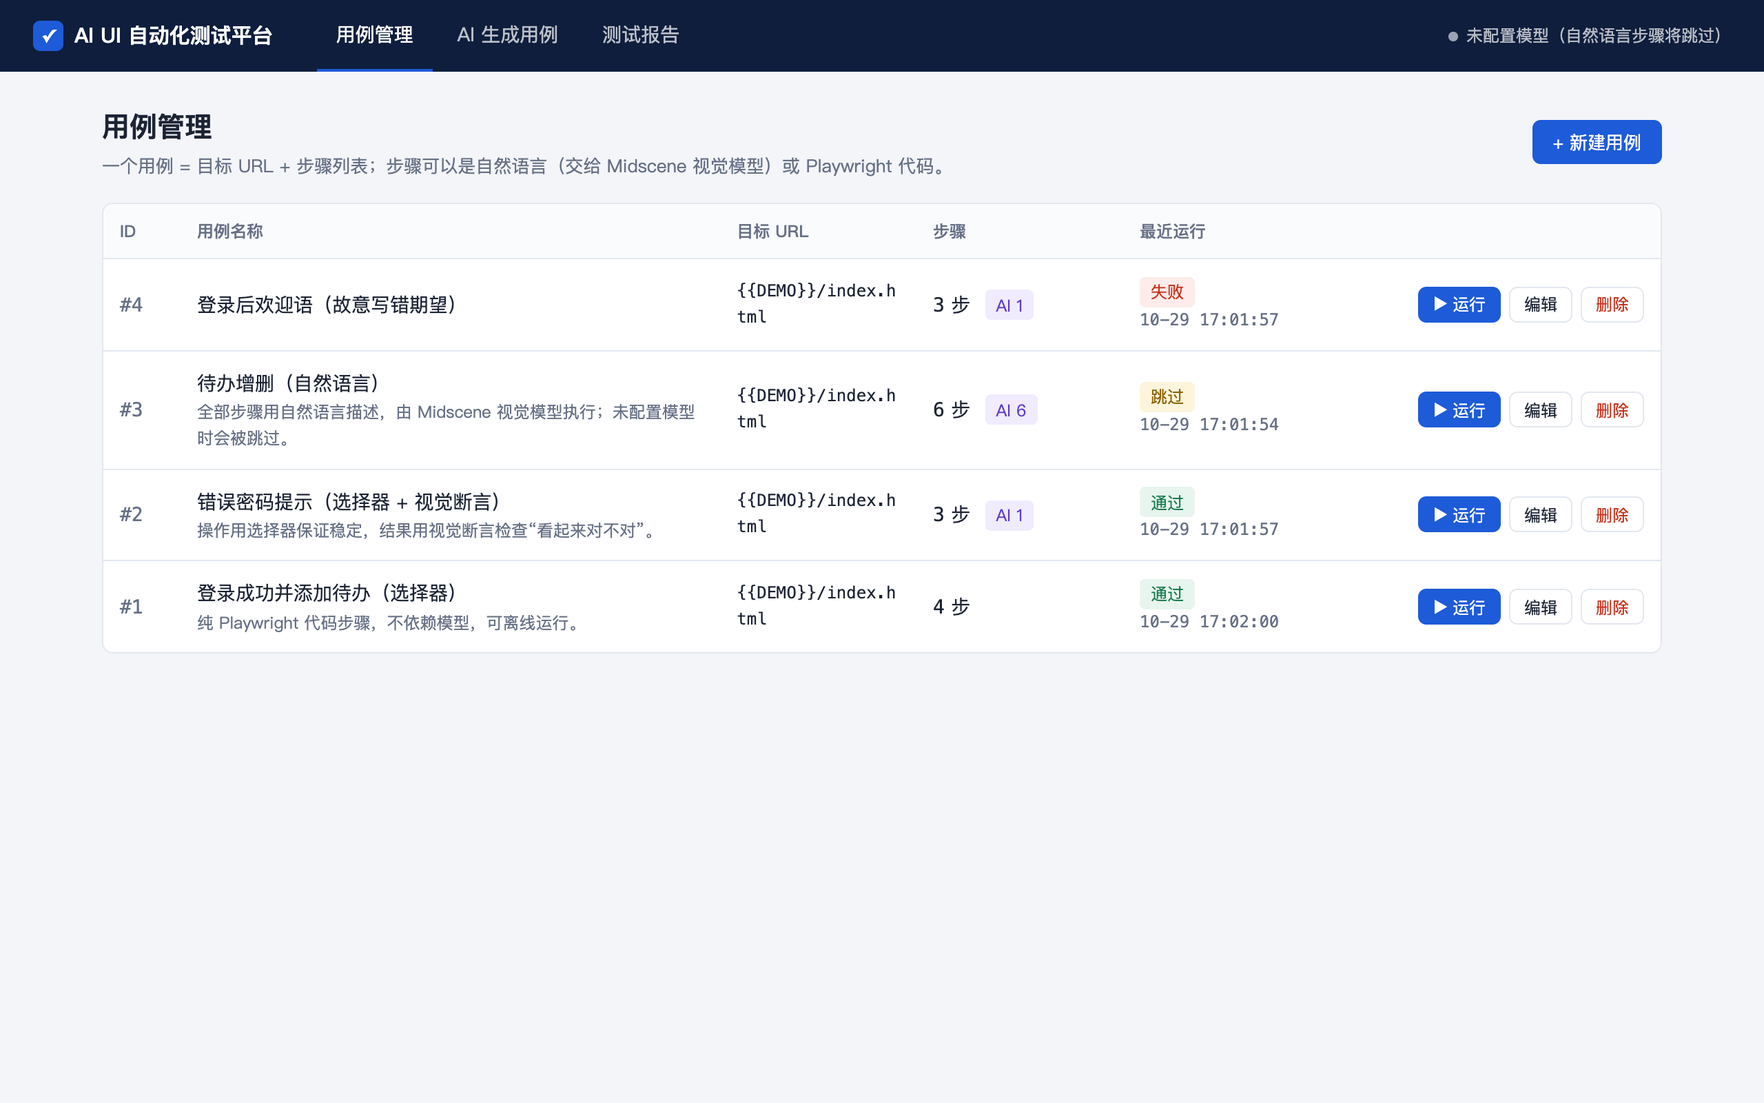
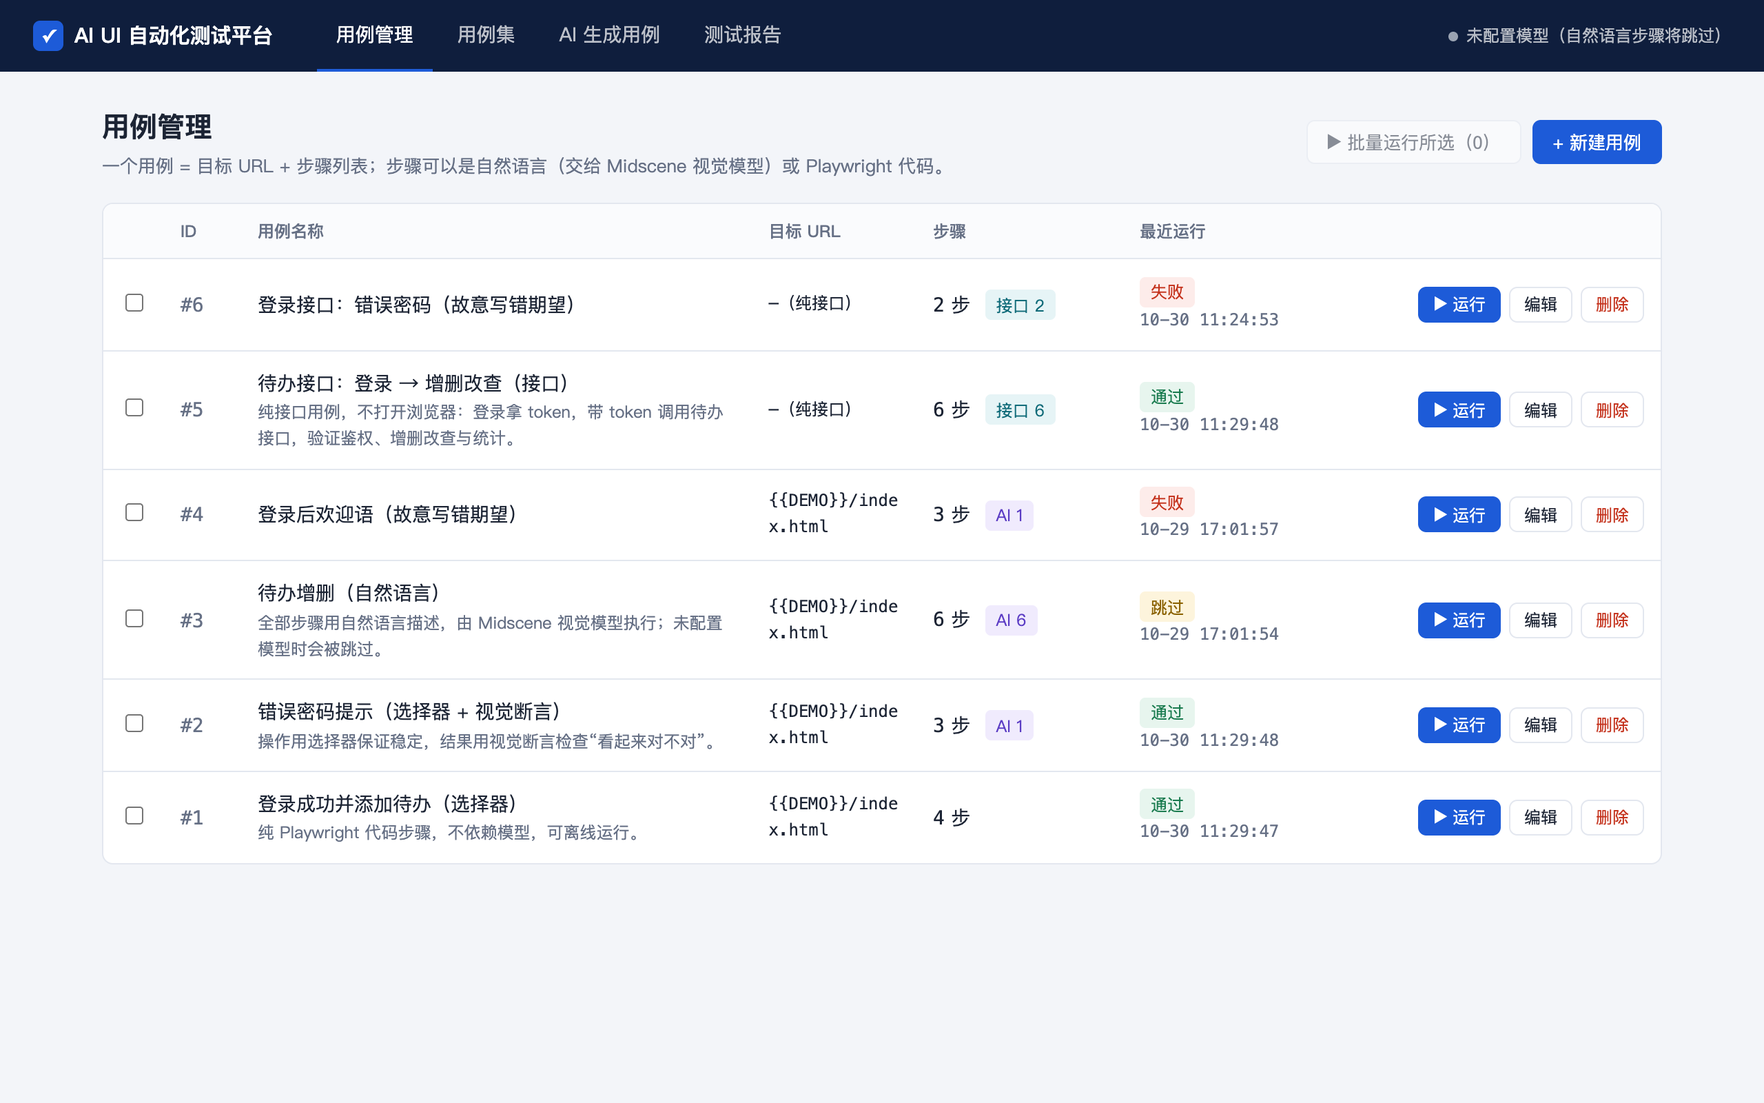
docs: 面试讲稿（架构、接口测试知识点对照、常见追问）、README 更新与新截图

diff --git a/scripts/screenshots.ts b/scripts/screenshots.ts
@@ -28,6 +28,19 @@ if (passed) {
   await page.goto(`${base}/runs/${passed.id}`)
   await shot('run-passed', true)
 }
+const apiRun = runs.find((r: any) => r.caseName.includes('（接口）') && r.status === 'passed')
+if (apiRun) {
+  await page.goto(`${base}/runs/${apiRun.id}`)
+  await page.locator('[data-test=api-exchange] summary').first().click()
+  await shot('run-api')
+}
+const batches = await (await page.request.get(`${base}/api/batches`)).json()
+if (batches[0]) {
+  await page.goto(`${base}/batches/${batches[0].id}`)
+  await shot('batch')
+}
+await page.goto(`${base}/suites`)
+await shot('suites')
 await page.goto(`${base}/reports`)
 await page.hover('svg path.col >> nth=5').catch(() => {})
 await shot('reports')

diff --git a/README.md b/README.md
@@ -1,6 +1,6 @@
 # AI 驱动的 UI 自动化测试平台
 
-在 Web 页面上管理 UI 测试用例、一键执行、查看报告。用例步骤可以写 **Playwright 代码**（选择器，快且确定），也可以写**自然语言**（交给 [Midscene.js](https://midscenejs.com/) 视觉模型看截图执行），两种步骤可以写在同一个用例里。还能粘贴需求文本，让大模型生成用例草稿，人工审核后再入库。
+在 Web 页面上管理测试用例、一键执行、查看报告。用例步骤可以写 **Playwright 代码**（选择器，快且确定）、**自然语言**（交给 [Midscene.js](https://midscenejs.com/) 视觉模型看截图执行）或**接口请求**（YAML 描述请求、断言和变量提取），几种步骤可以写在同一个用例里。用例可以组成用例集批量运行，导出 JUnit 报告接入 CI。还能粘贴需求文本，让大模型生成用例草稿，人工审核后再入库。
 
 > 定位：帮团队从“手工点页面”过渡到自动化，让不熟悉代码的测试同学先用自然语言写用例，稳定之后再沉淀成选择器脚本。
 
@@ -10,11 +10,13 @@
 
 | 模块 | 说明 |
 |---|---|
-| 用例管理 | 新建 / 编辑 / 删除用例；一个用例 = 目标 URL + 步骤列表；步骤有四种：AI 操作（`aiAct`）、AI 断言（`aiAssert`）、AI 提取（`aiQuery`）、Playwright 代码片段；数据存在 SQLite |
+| 用例管理 | 新建 / 编辑 / 删除用例；一个用例 = 目标 URL + 步骤列表；步骤有五种：AI 操作（`aiAct`）、AI 断言（`aiAssert`）、AI 提取（`aiQuery`）、Playwright 代码片段、接口请求；数据存在 SQLite |
+| 接口测试 | 接口步骤用 YAML 描述 `method / url / headers / json`，断言状态码、响应耗时、响应头和 JSON 字段（`eq / exists / contains / len / gt / lt / type`），用 `extract` 提取变量供后续步骤引用（接口关联）。纯接口用例不启动浏览器，报告展示请求与响应（鉴权头脱敏） |
 | 一键执行 | 后端用 Playwright 驱动 Chrome 执行；运行进入串行队列异步执行，前端每 0.8 秒轮询一次，实时看到每一步的状态。未配置模型时自然语言步骤标记为“跳过（未配置模型）”，代码步骤照常执行 |
 | 测试报告 | 每一步都记录状态、耗时、截图（失败步骤大图展示）、模型调用次数和 token；报告页有运行通过率、平均耗时、每日通过率趋势、最近 30 次耗时柱状图和历史运行列表，可按用例和时间范围筛选 |
+| 用例集与 CI | 用例可以组成用例集，或在列表里勾选多个用例批量运行；批次页显示进度与汇总，可下载 JUnit XML。`npm run ci:run -- --suite 冒烟` 触发用例集并轮询到结束，有失败时以非 0 退出，让流水线变红 |
 | AI 生成用例 | 粘贴需求文本，调用 OpenAI 兼容接口生成用例草稿（自然语言步骤）；草稿可修改、可取消勾选，点“保存”后才入库 |
-| 演示站点 | 自带一个离线的被测站点（登录 + 待办列表，账号 `demo / demo123`），另附 3 条示例用例，不联网也能演示整条链路 |
+| 演示站点 | 自带一个离线的被测站点：页面（登录 + 待办列表，账号 `demo / demo123`）和后端接口 `/demo-api`（登录发放 token，带 token 增删改查待办，每个会话的数据互相隔离）。另附 4 条示例用例和一个“冒烟”用例集，不联网也能演示整条链路 |
 
 ## 快速开始
 
@@ -26,7 +28,7 @@ npm install
 npm run dev
 ```
 
-打开 <http://localhost:5173>（如果端口被占用，Vite 会自动换一个，以终端输出为准）。首次启动会自动创建 `data/platform.db`，并写入 3 条示例用例。
+打开 <http://localhost:5173>（如果端口被占用，Vite 会自动换一个，以终端输出为准）。首次启动会自动创建 `data/platform.db`，并写入 4 条示例用例和“冒烟”用例集。
 
 - 浏览器默认用本机安装的 **Google Chrome**（`BROWSER_CHANNEL=chrome`），不用另外下载 Chromium。没有 Chrome 时，先执行 `npx playwright install chromium`，再在 `.env` 里写 `BROWSER_CHANNEL=`。
 - 配置模型：复制 `.env.example` 为 `.env`，填写 `MIDSCENE_MODEL_BASE_URL / MIDSCENE_MODEL_API_KEY / MIDSCENE_MODEL_NAME`，然后重启。用阿里云百炼时，可以用通用地址或工作空间专属地址；视觉模型响应慢，`MIDSCENE_MODEL_TIMEOUT` 建议设为 120000。`.env` 已加入 `.gitignore`。
@@ -35,11 +37,15 @@ npm run dev
 ## 测试
 
 ```bash
-npm test            # vitest：43 条单元 / 集成测试
+npm test            # vitest：97 条单元 / 集成测试
 ```
 
 ```bash
-npm run test:e2e    # Playwright：8 条平台自身的端到端测试（会先构建前端）
+npm run test:e2e    # Playwright：12 条平台自身的端到端测试（会先构建前端）
+```
+
+```bash
+npm run test:api:setup && npm run test:api   # pytest：66 条接口自动化用例（见 api-tests/README.md）
 ```
 
 ```bash
@@ -48,6 +54,8 @@ npm run typecheck   # tsc + vue-tsc
 
 - **单元测试**：用例校验、URL 占位符、代码片段编译与超时、运行结论推导、模型输出的 JSON 解析（代码块包裹、类型别名、无效步骤丢弃）、OpenAI 兼容请求格式。
 - **集成测试**（`tests/unit/platform.test.ts`）：真实 Fastify + 内存 SQLite + 本机 Chrome 跑演示站点。自然语言步骤由注入的**假 Agent** 执行，用来验证跳过逻辑、每步 token 统计、失败截图、失败后的步骤标记为“未执行”、`vars` 传值、统计口径。
+- **接口自动化**（`api-tests/`，Python）：pytest + requests 分层框架（客户端 / 契约 / 断言 / YAML 数据 / 夹具），测平台接口和演示站点接口：CRUD 与 JSON Schema 契约、数据驱动的参数校验与边界值、登录鉴权与 token 关联、异步接口“提交 → 轮询”、统计口径、CI 脚本的退出码。
+- **CI**（`.github/workflows/ci.yml`）：类型检查 → vitest → E2E → pytest → 启动平台执行“冒烟”用例集，并上传全部报告。
 - **E2E**（`e2e/`）：起两个互相隔离的平台实例。`nomodel` 实例验证“新建 → 执行 → 报告”、失败截图、跳过提示、编辑删除和表单校验；`mockmodel` 实例指向本地假模型（`e2e/mock-llm.ts`），验证“生成 → 审核 → 入库”的流程。假模型只用于测试流程，**不代表真实模型的生成效果**。
 
 ## 架构
@@ -58,25 +66,28 @@ flowchart LR
     UI["用例管理 / 运行详情 / 报告 / AI 生成"]
   end
   subgraph Server["Node 服务（Fastify + TypeScript）"]
-    API["REST API<br/>/api/cases /api/runs /api/stats /api/generate"]
+    API["REST API<br/>/api/cases /api/runs /api/suites<br/>/api/batches /api/stats /api/generate"]
     Q["Executor<br/>串行队列 · 每次运行一个 BrowserContext"]
     GEN["generate.ts<br/>OpenAI 兼容 chat/completions"]
-    DB[("SQLite<br/>cases / runs / run_steps")]
+    DB[("SQLite<br/>cases / suites / batches<br/>runs / run_steps")]
     FS["data/artifacts 截图<br/>data/midscene 回放报告"]
   end
   subgraph Run["被测页面"]
     PW["Playwright 代码步骤<br/>page / expect / vars"]
     MS["Midscene PlaywrightAgent<br/>aiAct / aiAssert / aiQuery"]
+    AP["接口步骤<br/>fetch + 断言 + extract"]
   end
+  CI["CI：ci-run 脚本<br/>JUnit XML"]
   LLM["视觉 / 文本大模型<br/>（如 qwen3-vl-plus）"]
-  DEMO["演示站点 /demo"]
+  DEMO["演示站点 /demo<br/>+ 后端 /demo-api"]
 
   UI -- "轮询 0.8s" --> API
   API --> DB
   API -- enqueue --> Q
-  Q --> PW & MS
+  CI -- 触发用例集 / 轮询 --> API
+  Q --> PW & MS & AP
   MS -- 截图 + 指令 --> LLM
-  PW & MS --> DEMO
+  PW & MS & AP --> DEMO
   Q -- 每步写库 / 截图 --> DB & FS
   API --> GEN --> LLM
 ```
@@ -85,9 +96,12 @@ flowchart LR
 
 ```
 server/
-  app.ts            路由（用例、执行、统计、生成）
-  runner/executor.ts  执行器：队列、浏览器复用、逐步执行、截图、用量差值
+  app.ts            路由（用例、执行、用例集与批次、统计、生成）
+  runner/executor.ts  执行器：队列、浏览器按需启动、逐步执行、截图、用量差值
   runner/steps.ts     代码片段编译与超时、运行结论推导
+  runner/api-step.ts  接口步骤：YAML 解析、变量渲染、请求、断言、变量提取
+  report/junit.ts     批次导出 JUnit XML
+  demo-api.ts         演示站点后端（登录鉴权 + 待办增删改查）
   runner/ai.ts        Midscene Agent 工厂（可替换，便于测试）
   ai/generate.ts      需求 → 用例草稿（提示词、调用、解析）
   repo/               SQLite 读写与统计
@@ -96,6 +110,9 @@ shared/types.ts     前后端共用的类型
 web/src/            Vue 页面与组件（含手写的 SVG 趋势图）
 tests/unit/         vitest
 e2e/                平台自身的 Playwright E2E 与假模型
+api-tests/          Python 接口自动化（pytest + requests）
+scripts/ci-run.ts   CI 触发脚本
+.github/workflows/  GitHub Actions
 ```
 
 ## 截图
@@ -107,6 +124,10 @@ e2e/                平台自身的 Playwright E2E 与假模型
 | 测试报告 | 用例编辑 |
 |---|---|
 | ![](docs/screenshots/reports.png) | ![](docs/screenshots/case-edit.png) |
+
+| 接口步骤：请求、断言、提取的变量 | 用例集批量运行（可下载 JUnit） |
+|---|---|
+| ![](docs/screenshots/run-api.png) | ![](docs/screenshots/batch.png) |
 
 | AI 生成：未配置模型时的提示 | AI 生成：草稿审核（截图里的数据来自 E2E 假模型） |
 |---|---|
@@ -137,6 +158,10 @@ e2e/                平台自身的 Playwright E2E 与假模型
 
 ### 其他取舍
 
+- **接口步骤用 YAML 而不是代码**：请求、断言、提取都是声明式的，不会写代码的同学也能维护，保存时就能校验语法；需要复杂逻辑时，同一个用例里仍可写代码步骤，并通过 `vars` 读取接口提取的变量。断言失败时一次性列出所有不符合的点，而不是只报第一个。
+- **接口和页面混用**：先用接口造数据（快、稳定），再到页面上验证展示，比全程点页面快一个数量级；纯接口用例完全不启动浏览器。
+- **批次与 JUnit**：一次批量执行就是一个批次，批次状态由所含运行推导，不单独存状态，避免不一致。导出 JUnit 是为了直接接入 Jenkins / GitLab / GitHub Actions 的测试报告展示；CI 脚本通过退出码让流水线变红。
+
 - **未配置模型时“跳过”而不是“失败”**：这样不会因为环境缺少 key 把整条流水线标红。只要有一步失败，整次运行就判为失败；部分步骤跳过仍算通过（报告里有醒目提示）；全部步骤都被跳过时记为“跳过”，不计入通过率。
 - **失败即停**：某一步失败后，剩余步骤标记为“未执行”，不再继续，避免后续报错掩盖真正的失败点。每一步都截图（JPEG，体积小），失败步骤在报告中大图展示。
 - **串行队列 + 轮询**：MVP 阶段只复用一个浏览器实例，每次运行新建一个 BrowserContext，彼此隔离。每一步结束就写库，前端轮询即可看到实时进度，比 SSE 简单，也不怕连接中断。要并发执行时，扩展成 worker 池即可。
@@ -148,4 +173,5 @@ e2e/                平台自身的 Playwright E2E 与假模型
 ## 已知限制
 
 - 本仓库的自动化测试都没有调用真实模型（自然语言步骤由假 Agent 或假模型代替）。真实的视觉执行效果和 token 数据，需要配置 key 后实际运行才能看到。
-- 暂不支持并发执行、定时任务、多用户权限和 CI 触发接口。
+- 执行队列是串行的（一次一个运行）；暂不支持并发执行、定时任务和多用户权限。
+- GitHub Actions 工作流还没有在远程仓库上实际运行过。

diff --git a/docs/interview-notes.md b/docs/interview-notes.md
@@ -1,0 +1,84 @@
+# 面试怎么讲：AI 驱动的 UI 自动化测试平台
+
+> 写给自己看的讲稿。每个结论都能在仓库里找到对应代码或测试，被追问时可以直接打开给面试官看。
+
+## 一、30 秒版本
+
+> 我做了一个测试平台，用例可以用三种方式写：Playwright 选择器代码、自然语言（交给 Midscene 视觉模型执行）、接口请求（YAML 描述）。三种步骤可以混在同一个用例里。平台负责异步执行、逐步截图、统计模型的 token 消耗，用例可以组成用例集批量跑，导出 JUnit 接进 CI。平台自己有三层测试：97 条单元 / 集成测试、66 条 Python 接口自动化、12 条 Playwright E2E。
+
+## 二、架构（画在白板上）
+
+```
+浏览器（Vue） ──轮询──▶ Fastify REST API ──▶ SQLite
+                              │
+                              ▼ enqueue
+                     Executor（串行队列）
+              ┌───────────────┼────────────────┐
+        Playwright 代码   Midscene 视觉模型    接口步骤（fetch）
+              └───────────────┴────────────────┘
+                              ▼
+                演示站点 /demo + 后端 /demo-api
+CI：ci-run 脚本 ─触发用例集─▶ API ─轮询─▶ JUnit XML、退出码
+```
+
+要点：
+- **为什么异步**：一次运行要几秒到几分钟（视觉模型慢），HTTP 请求不能一直挂着，所以提交返回 202 和 runId，前端轮询。
+- **为什么每步都写库**：前端轮询就能看到实时进度；进程崩了，也能知道停在哪一步（重启时会把中断的运行标记为“异常”）。
+- **浏览器按需启动**：纯接口用例不打开浏览器，6 个接口步骤总共约 20ms。
+
+## 三、接口测试知识点（对照代码复习）
+
+| 知识点 | 在项目里的位置 | 一句话 |
+|---|---|---|
+| 状态码语义 | `server/app.ts` | 新建 201，异步受理 202，删除 204，参数错误 400，未登录 401，不存在 404 |
+| 鉴权 / token | `server/demo-api.ts` | 登录发放 token，后续请求带 `Authorization: Bearer <token>`；token 无效或已退出都返回 401 |
+| 接口关联 | 接口步骤的 `extract`，pytest 的 `auth` 夹具 | 上一个接口的返回值（token、id）作为下一个接口的入参，和 JMeter 里的“关联”是一回事 |
+| 参数校验与边界值 | `api-tests/data/*.yaml` | 空值、类型错误、超长；边界值 100 字符可以、101 不行，50 步可以、51 步不行 |
+| 契约测试 | `api-tests/common/schemas.py` | 用 JSON Schema 校验字段和类型，前后端字段改名会第一时间发现 |
+| 异步接口怎么测 | `client.wait_run` | 提交 → 轮询到终态（有超时），不用固定的 `sleep` |
+| 测试数据准备与清理 | `conftest.py` 的 `case_factory` | 用例里造的数据在用例结束后自动删除；共享环境里的统计用“前后增量”断言 |
+| 数据隔离 | `test_sessions_are_isolated` | 每个 token 一份独立数据，用例之间互不影响，也就能并发执行 |
+| 幂等 | `test_case_lifecycle` | 重复删除返回 404，不会误删别的数据 |
+| 安全 | 报告里的鉴权头脱敏 | token 只显示前 12 位，避免泄露在报告里 |
+
+## 四、常见追问
+
+**1. 视觉断言这么方便，为什么不全用它？**
+我在毕设里做过对比实验：删掉测试标记后，视觉断言 100% 通过、选择器只剩 40%；但单个视觉断言慢约 200 倍，每次约 8500 token。所以平台的策略是：操作和造数据用选择器或接口（快、确定），“看起来对不对”这类检查用视觉断言，稳定后再沉淀成脚本。报告里逐步显示 token，就是判断哪些步骤值得沉淀的依据。
+
+**2. token 怎么统计到每一步？**
+Midscene Agent 的 `metrics` 是累计值，执行器在每一步前后各取一次，差值就是这一步的调用次数和 token（`server/runner/executor.ts`）。
+
+**3. 没有模型 key 时怎么办？**
+自然语言步骤标记为“跳过”而不是“失败”，代码和接口步骤照常执行。这样不会因为环境缺少 key 把流水线标红；全部步骤都被跳过的运行不计入通过率。
+
+**4. 测试怎么保证稳定、不 flaky？**
+- 用 Playwright 的自动等待和 `expect` 重试，不写固定的 `sleep`；异步接口轮询时带超时。
+- E2E 起两个互相隔离的平台实例，各用一个临时数据目录；接口测试自己启动一个临时实例。
+- 共享环境里不依赖已有数据：自己造数据并清理，统计用增量断言。
+
+**5. 怎么接入 CI？**
+`scripts/ci-run.ts` 触发用例集、轮询到结束，打印汇总并写出 JUnit XML，有失败时以退出码 1 结束让流水线变红。GitHub Actions 依次跑类型检查、单元测试、E2E、pytest，最后启动平台执行“冒烟”用例集，并上传所有报告。
+
+**6. 平台本身是怎么测的？（测试金字塔）**
+底层 97 条 vitest（纯逻辑 + 真实 Fastify / SQLite / Chrome 的集成测试，用假 Agent 代替模型），中间 66 条 pytest 接口测试，顶层 12 条 Playwright E2E（含一个本地假模型验证 AI 生成流程）。越往上越慢、越少。
+
+**7. 代码步骤直接在服务端执行，安全吗？**
+不安全，这是有意识的取舍：只适合内网的可信用户。要对外开放，需要把执行器放进独立的容器或 worker 中隔离，并限制网络和文件系统访问。README 里写明了这一点。
+
+**8. 想支持并发执行，要改哪里？**
+现在是一个浏览器、一个串行队列，每次运行用一个独立的 BrowserContext。改成 worker 池，每个 worker 一个 context，加并发上限即可。数据层面每次运行本来就互相隔离，演示后端也按 token 隔离数据。
+
+**9. 开发中遇到过什么问题？**（都是真实发生的）
+- **编辑页数据被覆盖**：E2E 发现，进入编辑页后立即修改名称，保存的还是旧名字。原因是异步加载的用例数据晚于用户输入到达，把输入覆盖了。修复方法是数据加载完成前不渲染表单。
+- **Playwright 的 `getByTestId` 找不到元素**：它默认找的是 `data-testid` 属性，而项目用的是 `data-test`，需要配置 `testIdAttribute`。
+- **校验顺序变化导致测试失败**：支持“纯接口用例可以不填 URL”后，校验改成先看步骤再看 URL，原来断言错误信息里包含“URL”的测试就失败了。这说明错误信息也是接口契约的一部分，改动时要同步更新测试。
+
+**10. 这个平台和你在爱奇艺用的框架是什么关系？**
+实习时和带教聊到自动化用例，接触到“自然语言用例 + 大模型 + 视觉执行”的思路，下班后自己从零做了一个通用版本。用的是开源的 Midscene、Playwright 和自己写的演示站点，没有用公司的代码和内部模型。公司框架只讲思路层面，不讲内部实现。
+
+## 五、简历写法参考（数字均来自仓库）
+
+- **平台搭建**：基于 Node + TypeScript（Fastify）+ Vue 3 + SQLite 从 0 实现用例管理、异步执行、测试报告、AI 生成用例；步骤支持自然语言（Midscene）、Playwright 代码与接口请求混写。
+- **接口测试与 CI**：接口步骤用 YAML 描述请求、断言和变量提取（接口关联），纯接口用例不启动浏览器；支持用例集批量运行、导出 JUnit，CI 脚本在有失败时以非 0 退出，并接入 GitHub Actions。
+- **质量保障**：搭建 pytest + requests 接口自动化框架（JSON Schema 契约、YAML 数据驱动、夹具自动造数和清理），66 条接口用例覆盖鉴权、关联、边界值和异步接口；另有 97 条单元 / 集成测试和 12 条 Playwright E2E。
